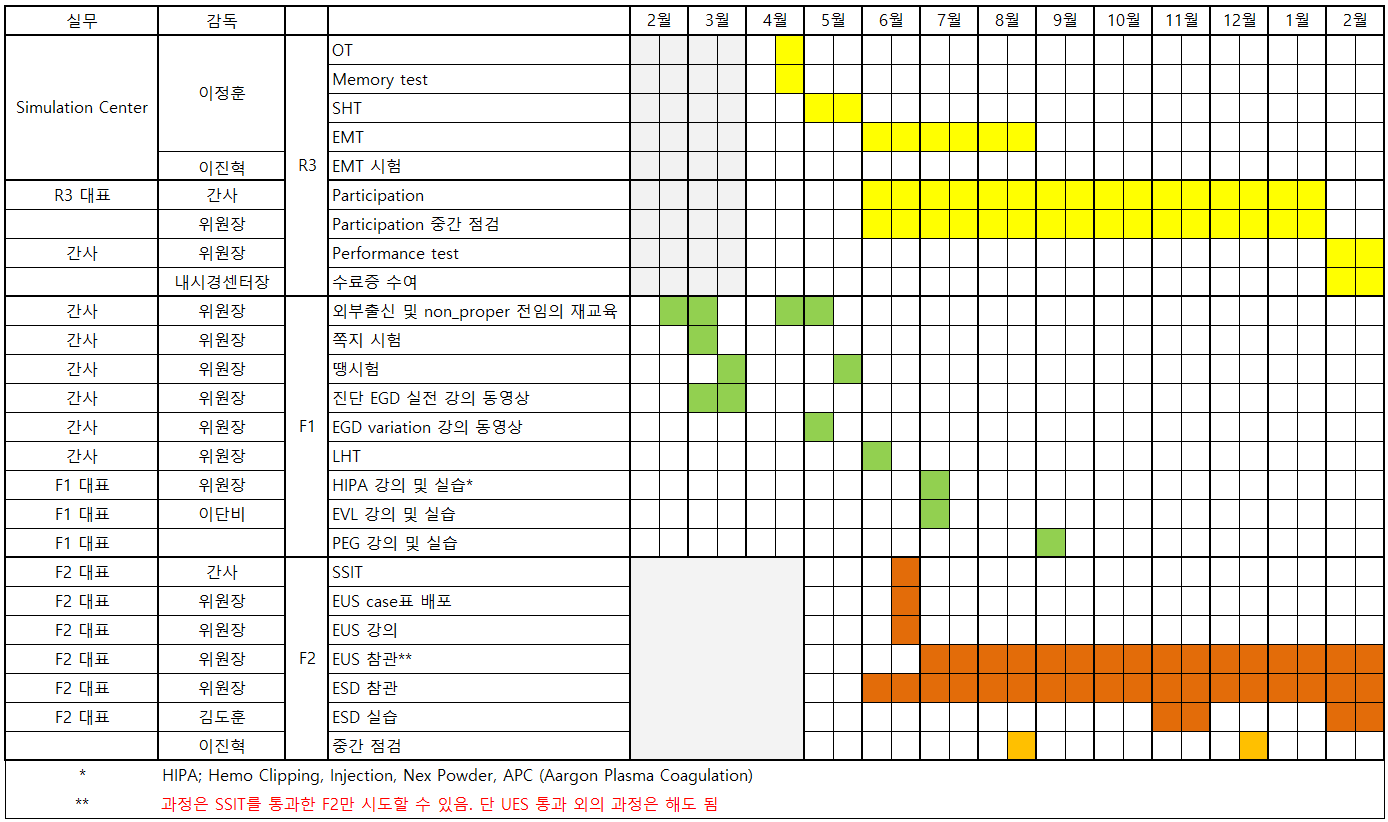
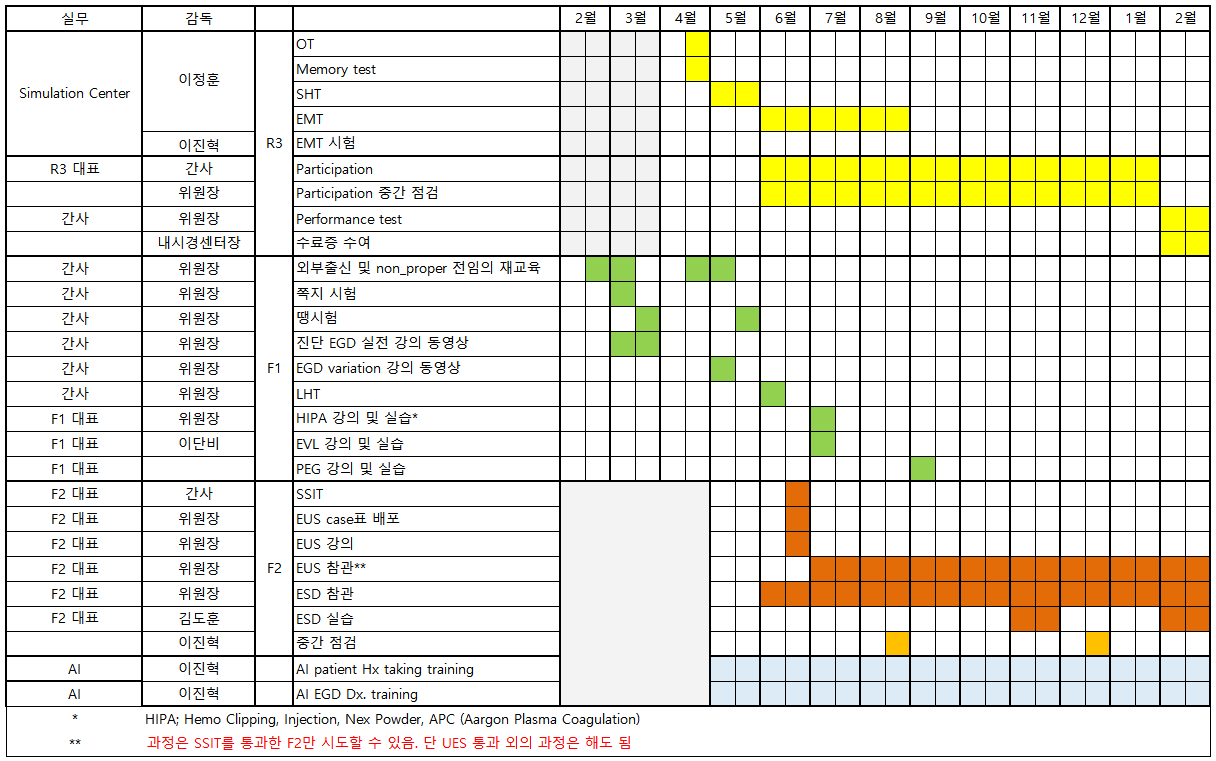
e

diff --git a/pages/4 소화기 전임의 1년차용.py b/pages/4 소화기 전임의 1년차용.py
@@ -20,7 +20,9 @@ if st.session_state.get('logged_in', False):  # 로그인 상태 확인
             1. 근무 초기에는 다른 병원에서 수련받다가 온 선생님들이 여기 시스템에 적응하는데 힘들어하는 시기 입니다. 잘 도와주기 바랍니다.
             1. 출신을 불문하고 EGD 기초 교육을 이수하지 못한 선생님들은 3월 중에 반드시 교육과정을 이수하기 바랍니다. 소화기 과내 방침입니다.
             1. 진단 EGD를 빨리 배우고 싶은 마음은 이해됩니다. 그러나 ER, 강릉, GI B 등의 일정도 있기 때문에 일정 정하는데 갈등이 있을 수 있겠습니다. 과내 지침은 초반에는 주로 원내 출신이 앞의 일정을 맡고 그 다음 달에는 앞의 일정은 빠진다는 것입니다. 모쪼록 원내 출신 선생님들의 자발적인 협조를 부탁합니다.
+            1. [Sim Class](https://edu.amc.seoul.kr/)에 올려져 있는 교육 자료들은 매우 충실하게 잘 만든 교육자료 입니다. 시기별로 자기에게 맞는 내용을 꼭 반복해서 학습하세요.
             1. AI 환자 병력 청취 훈련 프로그램은 매우 효과적인 문진 훈련 프로그램입니다. 10개의 증례가 마련되어 있으므로 완전히 자기 것이 될 때 까지 반복 훈련하세요.
+            1. AI를 이용한 EGD 사진 Dx. 훈련 프로그램이 곧 제공될 예정입니다. 난이도를 높여가며 매달 10개씩의 증례를 제공할 예정이니 반드시 공부하기 바랍니다.
         '''
         )
     with tab2:

diff --git a/pages/3 소화기 전임의 공통 프로그램.py b/pages/3 소화기 전임의 공통 프로그램.py
@@ -64,6 +64,20 @@ if st.session_state.get('logged_in', False):  # 로그인 상태 확인
                 1. 왼편 sidebar에는 증례의 해설 파일을 다운로드 받는 기능이 있으니 훈련에 참고하세요.
                 '''
             )
+            
+        st.subheader("AI EGD 사진 진단 훈련 프로그램")
+        with st.expander("AI EGD 사진 진단 훈련 프로그램의 내용을 보려면 여기를 눌러주세요"):
+            st.markdown(
+                '''
+                1. chatgpt를 이용한 EGD 병변 사진(png) 진단 훈련 프로그램입니다.
+                1. 접속 및 이용 방법은 차후 공지합니다.
+                1. 왼쪽 sidebar에서 png 사진과 case instruction 파일을 선택하고, 보여지는 병변의 impression을 아래 입력창에 입력하고 엔터를 칩니다.
+                1. 좀 기다리면 권장 답안과 비교를 하여 점수를 알려 줍니다.
+                1. 이 증례에 대해 추가로 궁금한 사항이 있으면 질문하면 정해진 내용 안에서는 대답해 줍니다.
+                1. 5월부터 매월 10 증례 씩 올릴 예정입니다.
+                '''
+            ) 
+            
         st.subheader("")
         st.subheader("")
 

diff --git a/pages/5 소화기 전임의 상부 2년차용.py b/pages/5 소화기 전임의 상부 2년차용.py
@@ -22,6 +22,7 @@ if st.session_state.get('logged_in', False):  # 로그인 상태 확인
             1. 가만히 있으면 아무도 안챙겨 줍니다. 시간을 짜내서라도 치료 내시경 세션에 참여하세요.
             1. [Sim Class](https://edu.amc.seoul.kr/)에 올려져 있는 교육 자료들은 1년차 뿐 아니라 여러분에게도 매우 도움이 되는 내용들이니 꼭 보기 바랍니다.
             1. AI 환자 병력 청취 훈련 프로그램은 매우 효과적인 문진 훈련 프로그램입니다. 10개의 증례가 마련되어 있으므로 완전히 자기 것이 될 때 까지 반복 훈련하세요.
+            1. AI를 이용한 EGD 사진 Dx. 훈련 프로그램이 곧 제공될 예정입니다. 난이도를 높여가며 매달 10개씩의 증례를 제공할 예정이니 반드시 공부하기 바랍니다.
             1. 내시경실 전 직원은 여러분의 명령을 받는 부하가 아니라 같이 일하는 동료입니다.
             1. 교육위원회에 허락을 받지 않은 사람을 병원내에서 무단으로 교육하는 것은 금지입니다.
         '''

diff --git a/Login.py b/Login.py
@@ -44,4 +44,4 @@ if st.button("Login"):
 
 st.divider()
 st.write("2024년 1월 17일 코드 수정")
-st.write("2024년 1월 17일 게시물 내용 수정")
+st.write("2024년 1월 22일 게시물 내용 수정")
